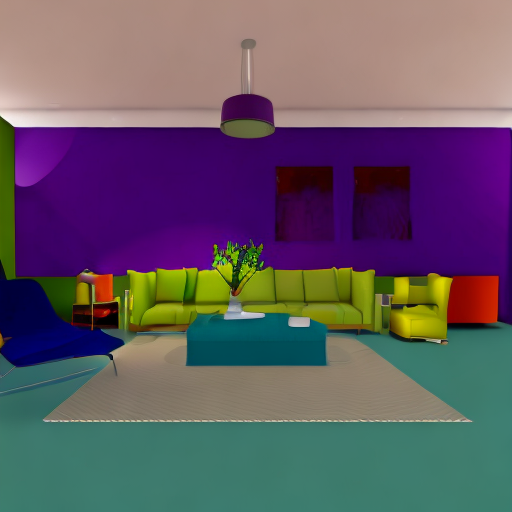
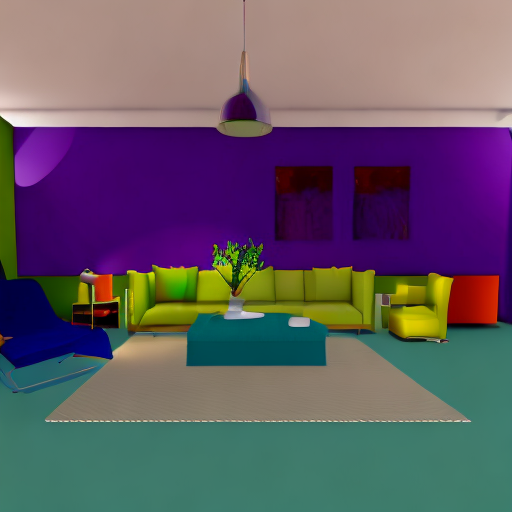
baseline test outputv2

diff --git a/dreambooth_img2img.py b/dreambooth_img2img.py
@@ -30,7 +30,7 @@ pipe.load_lora_weights(lora_weights_path)
 pipe = pipe.to("cuda")
 
 # Define the prompt
-prompt = "generate a realistic interior room design that follows the provided segmentation image"
+prompt = "generate a realistic interior room design with realistic colors that follows the layout of the provided segmentation image"
 
 # Set generator for reproducibility
 generator = torch.Generator("cuda").manual_seed(seed)
